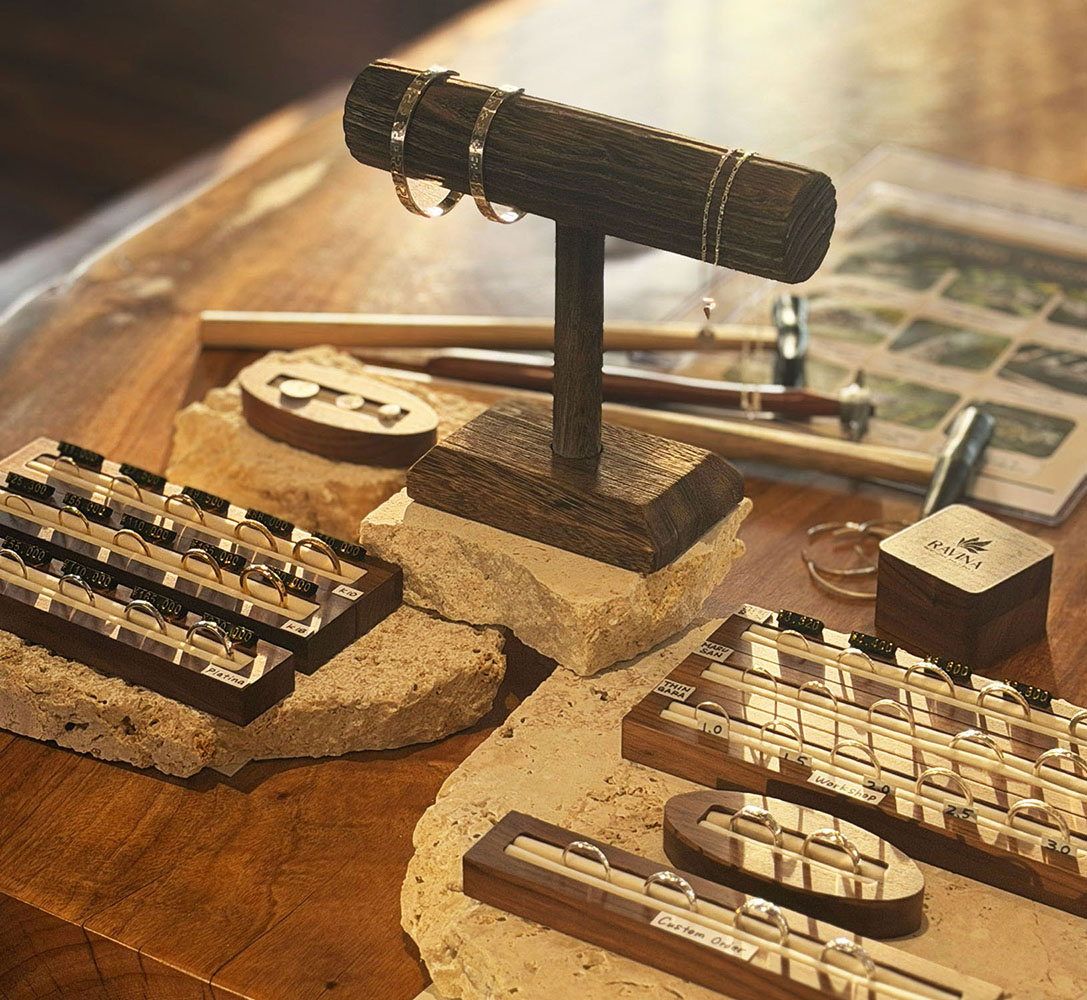
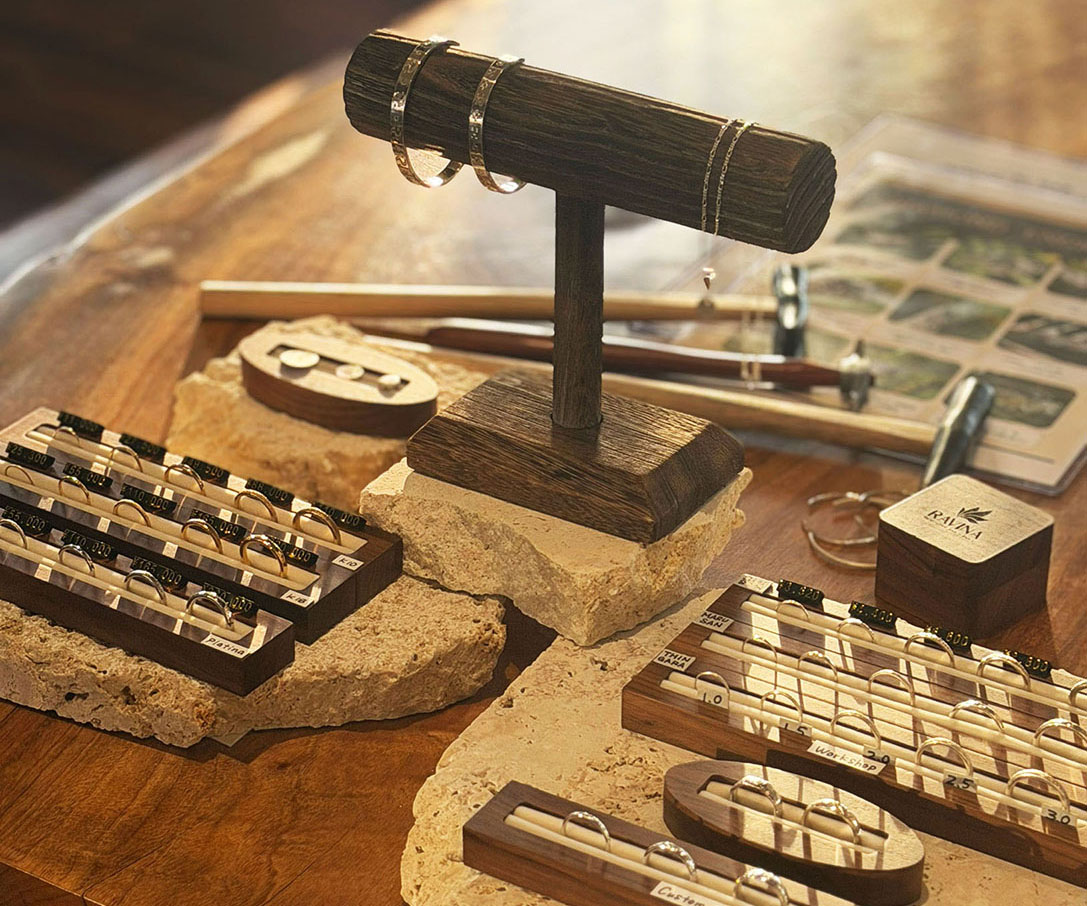
Add files via upload

diff --git a/index.html b/index.html
@@ -1048,7 +1048,7 @@
 </section>
 
 <!-- CONCEPT -->
-<section id="price" style="position:relative; padding:clamp(40px,8vh,100px) clamp(24px,8vw,100px); background:transparent;">
+<section id="price" style="position:relative; padding:0; background:transparent;">
 
   <!--
     構造：
@@ -1084,7 +1084,6 @@
     <!-- オーバーレイ：imgと完全に同じ矩形に追従（JS で位置合わせ） -->
     <div id="price-overlay-inner" style="
       position: absolute;
-      top: 0; left: 0; width: 100%; height: 100%;
       background: rgba(20,18,14,0.40);
       border-radius: 2px;
       display: flex;
@@ -1158,15 +1157,18 @@
     const nw = img.naturalWidth  || 1600;
     const nh = img.naturalHeight || 1066;
 
-    // object-fit:contain の実描画サイズを計算（96%表示）
-    const scale = Math.min(fw / nw, fh / nh) * 0.91;
+    // 画像を110%表示（scaleを大きくして表示領域を拡大）
+    const scale = Math.min(fw / nw, fh / nh) * 1.0;
     const rw    = nw * scale;
     const rh    = nh * scale;
     const left  = (fw - rw) / 2;
     const top   = (fh - rh) / 2;
 
-    // overlay は price-frame 全体を覆うため位置設定不要
-    // overlay.style.left = overlay.style.top = overlay.style.width = overlay.style.height = '';
+    // overlayは画像の実描画領域だけに追従（動画にはかからない）
+    overlay.style.left   = left + 'px';
+    overlay.style.top    = top  + 'px';
+    overlay.style.width  = rw   + 'px';
+    overlay.style.height = rh   + 'px';
   }
 
   // 画像ロード後 & リサイズ時に再計算